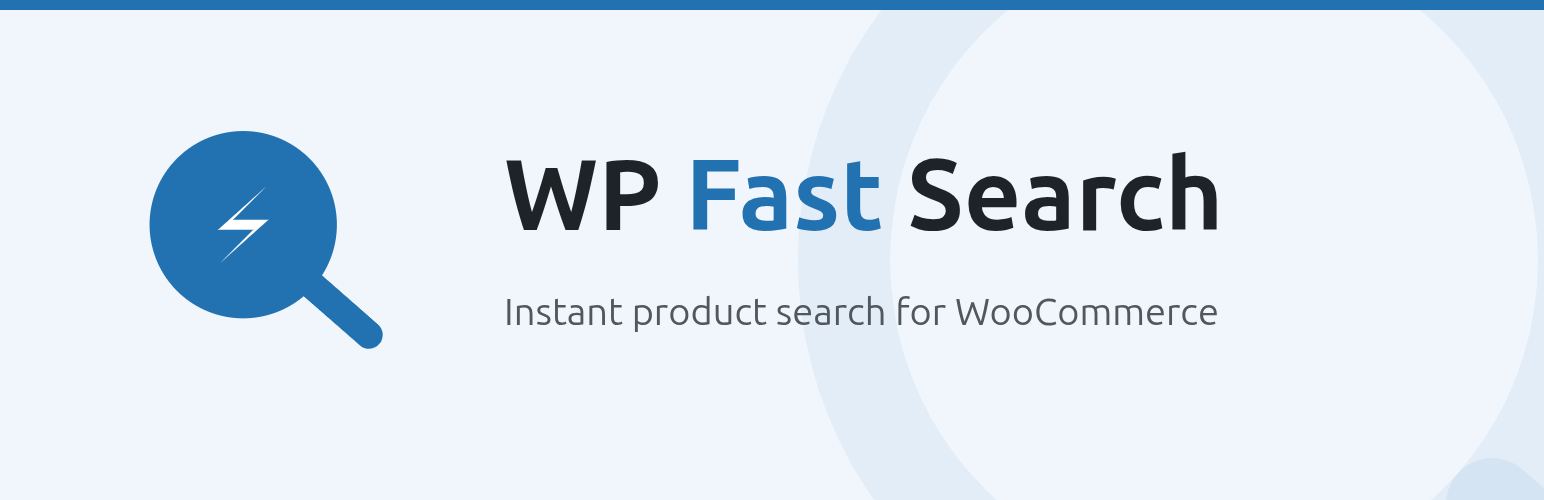
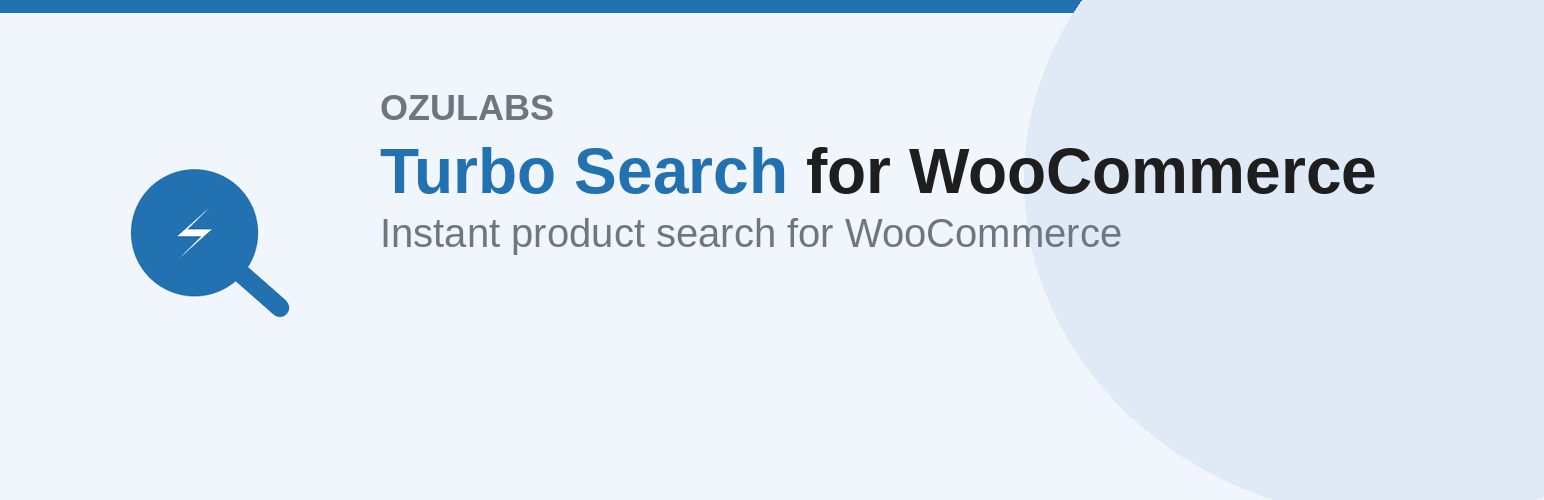
Close residual branding/naming gaps left by the wcs_->otsw_ rename
- Rename mu-plugin/wcs-cache-bypass.php -> otsw-cache-bypass.php: the
  filename was the one deprecated-prefix artifact the earlier rename
  missed (it used a hyphen, not underscore, so it was invisible to both
  PHPCS's PrefixAllGlobals sniff and the substring searches used to close
  out that rename). It still shipped literally into every customer's
  wp-content/mu-plugins/ directory. migrate_legacy_wcs_prefix() now
  deletes the old-named file before install_mu_plugin() ever writes the
  new one, since the two are otherwise byte-identical and having both
  present at once fatals the site on a duplicate function declaration.
- Replace the stale "@package WP_Fast_Search" docblock tag (a third,
  unexplained product name) with the current plugin name across 13 files.
- Regenerate banner-772x250.png/banner-1544x500.png, which still rendered
  "WP Fast Search" text from a previous rebrand.

336 tests / 923 assertions pass; PHPCS clean at the current otsw/OTSW
prefix config.

diff --git a/tests/phpunit/tests/ActivatorTest.php b/tests/phpunit/tests/ActivatorTest.php
@@ -14,9 +14,11 @@ final class ActivatorTest extends TestCase {
 		$GLOBALS['wpdb'] = $this->wpdb;
 
 		// Remove any MU file a previous test copied.
-		$mu = WPMU_PLUGIN_DIR . '/wcs-cache-bypass.php';
-		if ( file_exists( $mu ) ) {
-			unlink( $mu );
+		foreach ( array( 'otsw-cache-bypass.php', 'wcs-cache-bypass.php' ) as $mu_filename ) {
+			$mu = WPMU_PLUGIN_DIR . '/' . $mu_filename;
+			if ( file_exists( $mu ) ) {
+				unlink( $mu );
+			}
 		}
 	}
 
@@ -138,9 +140,17 @@ final class ActivatorTest extends TestCase {
 		// single-shot retry jobs, so it reschedules itself forever unless
 		// explicitly cleared.
 		$GLOBALS['otsw_test_cron']['wcs_daily_transient_gc'] = time();
+		// The pre-rename MU file, still sitting under its old name from
+		// before the upgrade — must be gone before the new otsw-cache-bypass.php
+		// is ever written, or WordPress loads both and fatals on the
+		// duplicate otsw_-prefixed function declarations they share.
+		$legacy_mu = WPMU_PLUGIN_DIR . '/wcs-cache-bypass.php';
+		file_put_contents( $legacy_mu, '<?php // placeholder' );
 		$this->healthyTables();
 
 		Activator::init();
+
+		$this->assertFileDoesNotExist( $legacy_mu, 'the pre-rename MU file must be removed during migration, not left alongside the new one' );
 
 		// The admin's actual setting survives the rename instead of silently
 		// reverting to the otsw_ default.
@@ -284,9 +294,9 @@ final class ActivatorTest extends TestCase {
 
 		Activator::init();
 
-		$this->assertFileExists( WPMU_PLUGIN_DIR . '/wcs-cache-bypass.php' );
+		$this->assertFileExists( WPMU_PLUGIN_DIR . '/otsw-cache-bypass.php' );
 		$this->assertSame( OTSW_VERSION, get_option( 'otsw_mu_version' ) );
-		$this->assertFileEquals( OTSW_PLUGIN_DIR . 'mu-plugin/wcs-cache-bypass.php', WPMU_PLUGIN_DIR . '/wcs-cache-bypass.php' );
+		$this->assertFileEquals( OTSW_PLUGIN_DIR . 'mu-plugin/otsw-cache-bypass.php', WPMU_PLUGIN_DIR . '/otsw-cache-bypass.php' );
 	}
 
 	/**
@@ -309,7 +319,7 @@ final class ActivatorTest extends TestCase {
 
 		Activator::init();
 
-		$this->assertFileExists( WPMU_PLUGIN_DIR . '/wcs-cache-bypass.php', 'a missing file must be repaired even when the stored version already matches' );
+		$this->assertFileExists( WPMU_PLUGIN_DIR . '/otsw-cache-bypass.php', 'a missing file must be repaired even when the stored version already matches' );
 	}
 
 	public function test_current_mu_version_and_present_file_leaves_it_untouched(): void {
@@ -322,7 +332,7 @@ final class ActivatorTest extends TestCase {
 
 		Activator::init(); // steady state: version current, file already present
 
-		$this->assertFileEquals( OTSW_PLUGIN_DIR . 'mu-plugin/wcs-cache-bypass.php', WPMU_PLUGIN_DIR . '/wcs-cache-bypass.php' );
+		$this->assertFileEquals( OTSW_PLUGIN_DIR . 'mu-plugin/otsw-cache-bypass.php', WPMU_PLUGIN_DIR . '/otsw-cache-bypass.php' );
 	}
 
 	public function test_frontend_requests_do_not_repair_a_missing_mu_file(): void {
@@ -333,7 +343,7 @@ final class ActivatorTest extends TestCase {
 
 		Activator::init();
 
-		$this->assertFileDoesNotExist( WPMU_PLUGIN_DIR . '/wcs-cache-bypass.php', 'the file-existence probe is admin-only, same as the version check it augments' );
+		$this->assertFileDoesNotExist( WPMU_PLUGIN_DIR . '/otsw-cache-bypass.php', 'the file-existence probe is admin-only, same as the version check it augments' );
 	}
 
 	public function test_frontend_requests_never_touch_the_mu_file(): void {
@@ -344,7 +354,7 @@ final class ActivatorTest extends TestCase {
 
 		Activator::init();
 
-		$this->assertFileDoesNotExist( WPMU_PLUGIN_DIR . '/wcs-cache-bypass.php' );
+		$this->assertFileDoesNotExist( WPMU_PLUGIN_DIR . '/otsw-cache-bypass.php' );
 	}
 
 	// ── Cron bootstrap ───────────────────────────────────────────────────────
@@ -423,14 +433,14 @@ final class ActivatorTest extends TestCase {
 	/**
 	 * Regression: wp-content/mu-plugins/ is a single, network-wide directory
 	 * — not per-site — and Free/Pro both install and use the exact same
-	 * wcs-cache-bypass.php file. deactivate() used to remove it
+	 * otsw-cache-bypass.php file. deactivate() used to remove it
 	 * unconditionally, so migrating from Free to Pro on the same site (a
 	 * supported, expected path — Free's own activation guard refuses to run
 	 * alongside Pro) silently broke Pro's fast-path cache-bypass the moment
 	 * an admin deactivated the now-redundant Free copy.
 	 */
 	public function test_deactivate_does_not_remove_the_shared_mu_file_when_pro_is_still_active(): void {
-		$mu = WPMU_PLUGIN_DIR . '/wcs-cache-bypass.php';
+		$mu = WPMU_PLUGIN_DIR . '/otsw-cache-bypass.php';
 		file_put_contents( $mu, '<?php // placeholder' );
 		$GLOBALS['otsw_test_active_plugins'] = array( 'turbo-search-for-woocommerce-pro/turbo-search-for-woocommerce.php' );
 
@@ -440,7 +450,7 @@ final class ActivatorTest extends TestCase {
 	}
 
 	public function test_deactivate_removes_the_mu_file_when_pro_is_not_active(): void {
-		$mu = WPMU_PLUGIN_DIR . '/wcs-cache-bypass.php';
+		$mu = WPMU_PLUGIN_DIR . '/otsw-cache-bypass.php';
 		file_put_contents( $mu, '<?php // placeholder' );
 
 		Activator::deactivate();

diff --git a/includes/class-activator.php b/includes/class-activator.php
@@ -4,7 +4,7 @@ declare(strict_types=1);
 /**
  * Plugin activation and schema creation logic.
  *
- * @package WP_Fast_Search
+ * @package OzuLabs_Turbo_Search_For_WooCommerce
  */
 
 namespace OTSW\Search;
@@ -302,7 +302,7 @@ class Activator {
 		// can delete the shared file out from under a different site that
 		// still needs it, while that other site's otsw_mu_version option never
 		// changed. A version-only check would then never notice or repair it.
-		$mu_file_missing = is_admin() && ! file_exists( trailingslashit( WPMU_PLUGIN_DIR ) . 'wcs-cache-bypass.php' );
+		$mu_file_missing = is_admin() && ! file_exists( trailingslashit( WPMU_PLUGIN_DIR ) . 'otsw-cache-bypass.php' );
 		if ( is_admin() && ( get_option( 'otsw_mu_version' ) !== OTSW_VERSION || $mu_file_missing ) ) {
 			self::install_mu_plugin();
 		}
@@ -406,6 +406,23 @@ class Activator {
 				'otsw_' . $legacy_meta_suffix,
 				'wcs_' . $legacy_meta_suffix
 			) );
+		}
+
+		// wp-content/mu-plugins/ loads every file it contains unconditionally,
+		// on every request. This MUST run before install_mu_plugin() (called
+		// later in the same init() pass) ever writes the new otsw-cache-bypass.php
+		// name — the old and new files are otherwise byte-identical (both
+		// already declare the same otsw_-prefixed functions), so having both
+		// present at once fatals the entire site with "Cannot redeclare
+		// otsw_mu_is_plugin_active()". Deleting first leaves a brief window
+		// with neither file present, which only degrades a concurrent request
+		// to the normal REST route — never a fatal.
+		$legacy_mu_file = trailingslashit( WPMU_PLUGIN_DIR ) . 'wcs-cache-bypass.php';
+		if ( file_exists( $legacy_mu_file ) || is_link( $legacy_mu_file ) ) {
+			$wp_filesystem = self::get_direct_filesystem( dirname( $legacy_mu_file ) );
+			if ( null !== $wp_filesystem ) {
+				$wp_filesystem->delete( $legacy_mu_file );
+			}
 		}
 
 		return true;
@@ -707,7 +724,7 @@ class Activator {
 	 * Copy the cache-bypass MU plugin into wp-content/mu-plugins/.
 	 *
 	 * Called on plugin activation. The source file ships inside the plugin
-	 * package at mu-plugin/wcs-cache-bypass.php, so the customer never has
+	 * package at mu-plugin/otsw-cache-bypass.php, so the customer never has
 	 * to touch the mu-plugins directory manually.
 	 *
 	 * Silently skips if the mu-plugins directory is not writable (managed
@@ -715,9 +732,9 @@ class Activator {
 	 * REST route with no errors).
 	 */
 	private static function install_mu_plugin(): void {
-		$source      = OTSW_PLUGIN_DIR . 'mu-plugin/wcs-cache-bypass.php';
+		$source      = OTSW_PLUGIN_DIR . 'mu-plugin/otsw-cache-bypass.php';
 		$mu_dir      = trailingslashit( WPMU_PLUGIN_DIR );
-		$destination = $mu_dir . 'wcs-cache-bypass.php';
+		$destination = $mu_dir . 'otsw-cache-bypass.php';
 
 		// Record the attempt for this plugin version so the init() update check
 		// runs at most once per version, not on every admin page load. autoload
@@ -798,7 +815,7 @@ class Activator {
 	private static function remove_mu_plugin(): void {
 		// wp-content/mu-plugins/ is a single, network-wide directory — not
 		// per-site — and Free/Pro both install and use the exact same
-		// wcs-cache-bypass.php file. Deactivating (or uninstalling) Free
+		// otsw-cache-bypass.php file. Deactivating (or uninstalling) Free
 		// while Pro is still active — a supported, expected migration path
 		// this plugin's own mutual-exclusion guard treats as first-class —
 		// must not delete the companion file the still-active Pro edition
@@ -816,7 +833,7 @@ class Activator {
 			return;
 		}
 
-		$destination = trailingslashit( WPMU_PLUGIN_DIR ) . 'wcs-cache-bypass.php';
+		$destination = trailingslashit( WPMU_PLUGIN_DIR ) . 'otsw-cache-bypass.php';
 
 		if ( file_exists( $destination ) || is_link( $destination ) ) {
 			$wp_filesystem = self::get_direct_filesystem( dirname( $destination ) );

diff --git a/uninstall.php b/uninstall.php
@@ -2,7 +2,7 @@
 /**
  * Fired when the plugin is uninstalled.
  *
- * @package WP_Fast_Search
+ * @package OzuLabs_Turbo_Search_For_WooCommerce
  */
 
 declare(strict_types=1);
@@ -182,15 +182,24 @@ if ( true === $otsw_delete_data ) {
 // 5. Remove the MU plugin file — but not out from under a still-active Pro
 // (or, on Multisite, Free) install anywhere in the network: mu-plugins/ is
 // a single, network-wide directory (not per-site), and Free/Pro both
-// install and use the exact same wcs-cache-bypass.php. Uninstalling Free
+// install and use the exact same otsw-cache-bypass.php. Uninstalling Free
 // after migrating to Pro is a supported, expected path. Unlike
 // remove_mu_plugin()'s deactivation-time check (deliberately same-site-only
 // — see its docblock), uninstall is a one-time, hard-to-reverse action, so
 // the whole-network scan in is_shared_network_resource_still_needed() is
 // justified here.
+//
+// Both filenames are checked: a site that never went through an active
+// admin request under 1.11.10+ (migrate_legacy_wcs_prefix() runs on
+// plugins_loaded, so this is only theoretical, but uninstall is one-time
+// and hard to reverse) could still be carrying the pre-rename
+// wcs-cache-bypass.php name.
 if ( defined( 'WPMU_PLUGIN_DIR' ) && ! \OTSW\Search\Activator::is_shared_network_resource_still_needed() ) {
-	$otsw_mu_file = trailingslashit( WPMU_PLUGIN_DIR ) . 'wcs-cache-bypass.php';
-	if ( file_exists( $otsw_mu_file ) || is_link( $otsw_mu_file ) ) {
+	foreach ( array( 'otsw-cache-bypass.php', 'wcs-cache-bypass.php' ) as $otsw_mu_filename ) {
+		$otsw_mu_file = trailingslashit( WPMU_PLUGIN_DIR ) . $otsw_mu_filename;
+		if ( ! file_exists( $otsw_mu_file ) && ! is_link( $otsw_mu_file ) ) {
+			continue;
+		}
 		if ( ! function_exists( 'get_filesystem_method' ) || ! function_exists( 'WP_Filesystem' ) ) {
 			require_once ABSPATH . 'wp-admin/includes/file.php';
 		}

diff --git a/tests/phpunit/tests/CacheKeyParityTest.php b/tests/phpunit/tests/CacheKeyParityTest.php
@@ -7,7 +7,7 @@ use OTSW\Search\Query_Normalizer;
 /**
  * REST ↔ MU-plugin cache-key parity.
  *
- * Executes the real MU intercept (mu-plugin/wcs-cache-bypass.php) with
+ * Executes the real MU intercept (mu-plugin/otsw-cache-bypass.php) with
  * fabricated request state and captures the transient key it looks up. That
  * key must equal the one the REST handler would write for the same input —
  * a drift here silently disables the fast path on every request (this
@@ -17,7 +17,7 @@ final class CacheKeyParityTest extends TestCase {
 
 	protected function setUp(): void {
 		otsw_tests_reset();
-		require_once OTSW_PLUGIN_DIR . 'mu-plugin/wcs-cache-bypass.php';
+		require_once OTSW_PLUGIN_DIR . 'mu-plugin/otsw-cache-bypass.php';
 
 		// The MU fast path now resolves the active edition from WordPress's own
 		// active-plugin state rather than directory existence — these tests

diff --git a/includes/class-query-normalizer.php b/includes/class-query-normalizer.php
@@ -7,7 +7,7 @@ declare(strict_types=1);
  * This is the single source of truth for how a raw search string becomes a
  * normalized query and a cache key. Both the REST handler
  * (Search_Handler::handle_request) and the MU cache-bypass plugin
- * (wcs-cache-bypass.php) call these methods, so the two paths can never
+ * (otsw-cache-bypass.php) call these methods, so the two paths can never
  * drift and compute different cache keys for the same search — a drift here
  * silently disables the MU fast path.
  *
@@ -16,7 +16,7 @@ declare(strict_types=1);
  * Synonym methods use get_option()/apply_filters(), which are always loaded
  * by that stage too.
  *
- * @package WP_Fast_Search
+ * @package OzuLabs_Turbo_Search_For_WooCommerce
  */
 
 namespace OTSW\Search;

diff --git a/includes/class-admin-settings.php b/includes/class-admin-settings.php
@@ -4,7 +4,7 @@ declare(strict_types=1);
 /**
  * Admin settings and dashboard.
  *
- * @package WP_Fast_Search
+ * @package OzuLabs_Turbo_Search_For_WooCommerce
  */
 
 namespace OTSW\Search;
@@ -99,7 +99,7 @@ class Admin_Settings {
 		}
 
 		// ── Notice 1: MU plugin not installed ────────────────────────────────
-		$mu_dest = trailingslashit( WPMU_PLUGIN_DIR ) . 'wcs-cache-bypass.php';
+		$mu_dest = trailingslashit( WPMU_PLUGIN_DIR ) . 'otsw-cache-bypass.php';
 		if ( ! file_exists( $mu_dest ) && ! get_user_meta( $user_id, 'otsw_notice_mu_bypass_dismissed', true ) ) {
 			?>
 			<div class="notice notice-warning is-dismissible" data-wcs-notice="otsw_notice_mu_bypass">

diff --git a/tests/phpunit/tests/CleanupCoverageTest.php b/tests/phpunit/tests/CleanupCoverageTest.php
@@ -21,7 +21,7 @@ final class CleanupCoverageTest extends TestCase {
 	private function sourceFiles(): array {
 		$files   = glob( OTSW_PLUGIN_DIR . 'includes/*.php' ) ?: array();
 		$files[] = OTSW_PLUGIN_DIR . 'turbo-search-for-woocommerce.php';
-		$files[] = OTSW_PLUGIN_DIR . 'mu-plugin/wcs-cache-bypass.php';
+		$files[] = OTSW_PLUGIN_DIR . 'mu-plugin/otsw-cache-bypass.php';
 		return $files;
 	}
 

diff --git a/tests/phpunit/tests/MuEditionResolutionTest.php b/tests/phpunit/tests/MuEditionResolutionTest.php
@@ -24,7 +24,7 @@ final class MuEditionResolutionTest extends TestCase {
 
 	protected function setUp(): void {
 		otsw_tests_reset();
-		require_once OTSW_PLUGIN_DIR . 'mu-plugin/wcs-cache-bypass.php';
+		require_once OTSW_PLUGIN_DIR . 'mu-plugin/otsw-cache-bypass.php';
 	}
 
 	public function test_free_active_only_resolves_to_the_free_directory(): void {

diff --git a/includes/views/tab-settings.php b/includes/views/tab-settings.php
@@ -10,7 +10,7 @@
  * @var int    $total              Published product count.
  * @var int    $processed          Products processed in the current/last rebuild.
  *
- * @package WP_Fast_Search
+ * @package OzuLabs_Turbo_Search_For_WooCommerce
  */
 
 if ( ! defined( 'ABSPATH' ) ) {

diff --git a/includes/views/settings-page.php b/includes/views/settings-page.php
@@ -12,7 +12,7 @@
  * @var int    $total             Published product count.
  * @var int    $processed         Products processed in the current/last rebuild.
  *
- * @package WP_Fast_Search
+ * @package OzuLabs_Turbo_Search_For_WooCommerce
  */
 
 if ( ! defined( 'ABSPATH' ) ) {

diff --git a/includes/class-rate-limiter.php b/includes/class-rate-limiter.php
@@ -19,7 +19,7 @@ declare(strict_types=1);
  * exactly, the same guarantee APCu gives, on any host — no extension and no
  * external cache required.
  *
- * @package WP_Fast_Search
+ * @package OzuLabs_Turbo_Search_For_WooCommerce
  */
 
 namespace OTSW\Search;

diff --git a/includes/class-frontend.php b/includes/class-frontend.php
@@ -4,7 +4,7 @@ declare(strict_types=1);
 /**
  * Frontend script/style loading and component injection.
  *
- * @package WP_Fast_Search
+ * @package OzuLabs_Turbo_Search_For_WooCommerce
  */
 
 namespace OTSW\Search;
